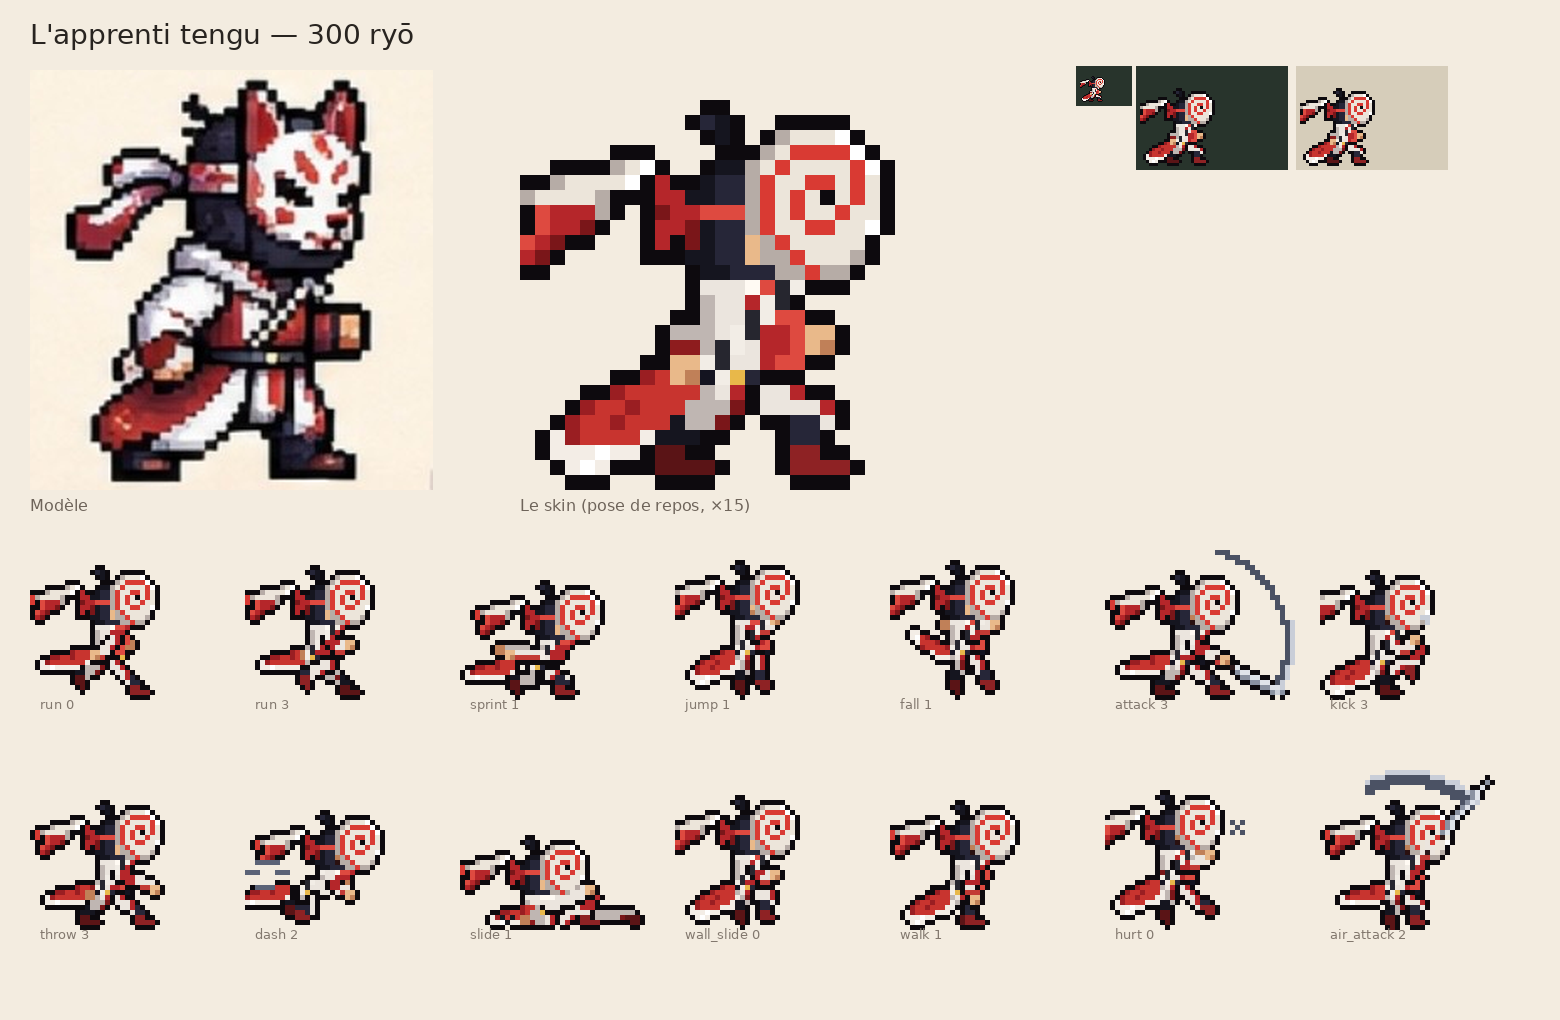
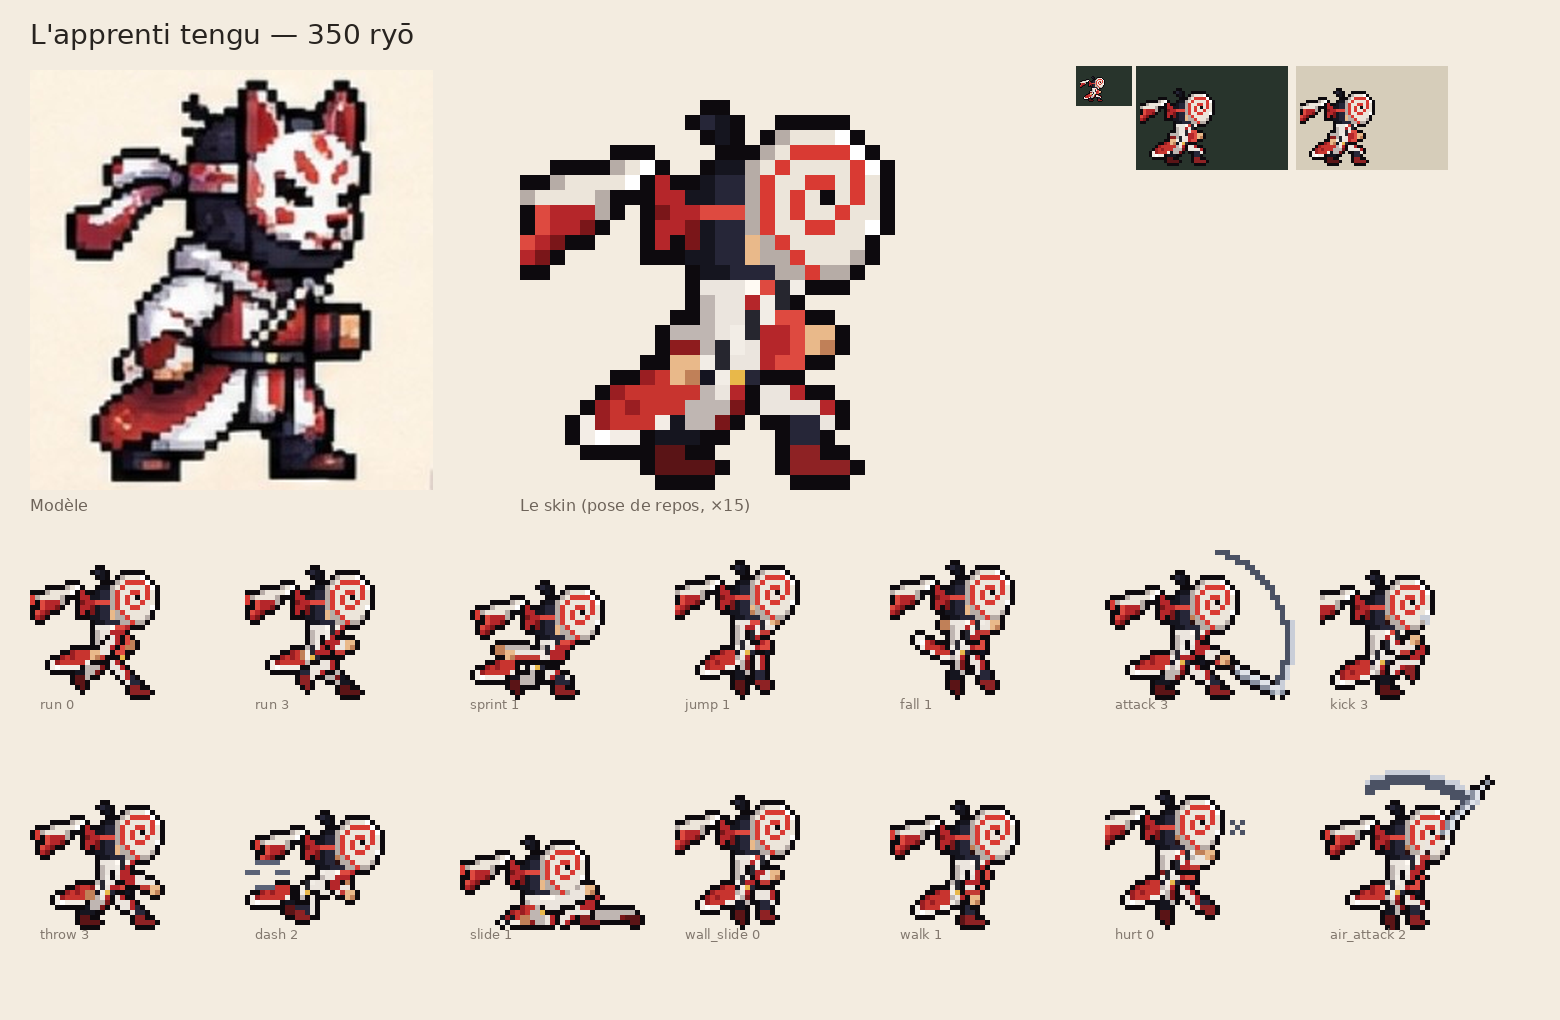
L'apprenti tengu dans le jeu, à 350 ryō ; queue de renard raccourcie
Queue de renard rouge et blanche raccourcie dans ses trois gabarits (repos,
course, chute) : elle traînait trop (Raph). Le skin entre dans le jeu, peu
commun à 350 ryō (prix choisi par Raph), entre le paysan et le Samouraï
déchu ; ses projectiles restent des shurikens. Tests (ordre de la boutique,
six skins dans le panneau de test), carte mentale, SKINS.md et CLAUDE.md à
jour.

Claude-Session: https://claude.ai/code/session_01A2iwx41GJ1yT1ZEu9VhwRg

diff --git a/docs/carte-mentale/index.html b/docs/carte-mentale/index.html
@@ -269,11 +269,11 @@ const BRANCHES = [
     txt: "Coup de pied de côté de karaté d'après des images de Raph : genou armé, hanche qui pivote, pied fléchi orteils vers le haut. L'effort se voit (yeux plissés, bouffée d'expiration, goutte de sueur). Il repousse même TATE qui pare et WARA qui mouline, jusque dans le vide.",
     keys: ['2 dégâts, recul 170 px/s', '0,35 s avant d\'en relancer un', 'Portée équivalente au sabre'],
     files: ['src/game/fall.js', 'tools/kage_forge/rig.py'], see: ['ennemi-chute'] },
-  { id: 'kage-skins', t: 'Skins de KAGE', s: 'encours', d: 'Encre, le paysan, le Samouraï déchu, le pêcheur, Lumière d’or ; cinq autres à reprendre un par un',
-    txt: "Un skin = une palette par slots (même animation, même boîte de collision, rien ne change dans le jeu) et des accessoires, posés pose par pose : sur la tête (grand sugegasa tressé, dessiné à la main), dans le dos (le mino de feuilles et de paille du voyageur, qui suit le bord du dos, s'évase jusqu'aux chevilles et s'effiloche ; le tonnelet doré, le panier, le bambou et le manche d'outil du paysan), sur le corps (cordon doré en pointillés et boucle de ceinture, pan de tunique, pantalon rapiécé, kimono semé de feuilles). Les pans du bandeau sont rangés (le voyageur garde un ruban qui flotte). Chaque skin a sa planche d'animation complète (la forge exporte ses accessoires sur un calque d'index, kage_acc_<skin>_index.png, fondu par le jeu sur la planche recolorée). Planches de Raph (14 novembre 2026) : après un premier essai trop rapide des dix skins entourés, on reprend un par un ; faits : le voyageur (100 ryō, retiré du jeu le 16 novembre 2026 à la demande de Raph : sa planche reste dans docs/kage/skins/) et le paysan des rizières (100 ryō) ; le vagabond (50 ryō) est retiré du jeu (14 novembre 2026) ; Lumière d'or (légendaire, 600 ryō, 15 novembre 2026) : ninja bleu nuit, bandeau d'or et ses pans en flammes, étoffe dorée sur l'épaule, cordon et pans d'or à la ceinture, grande auréole à croix de lumière (sans contour) ; sabre à lame d'or et poignée de cuir, arc du coup d'or, shurikens dorés (projectileColors) ; en jeu (src/game/aura.js), un orbe doré qui flotte devant lui, deux volutes de lumière autour des jambes, des étincelles ; une légère traînée d'or derrière le coup d'épée (les images précédentes de la lame) des silhouettes dorées derrière le dash , trois reflets et un peu de poussière d'or étincelante derrière chaque shuriken (champ trail, Shurikens.dust, maskSheet dans sprites.js) ; le Samouraï déchu (rare, 450 ryō, 16 novembre 2026) : kabuto laqué à la bombe haute, cornes d'or en croissant et cimier rouge, bande rouge et ses deux pans au vent ; épaulière laquée bordée d'or, au haut carré, resserrée sur l'épaule (elle ne dépasse plus que d'un pixel : Raph la confondait avec la cape) ; cape rouge en lambeaux, dessinée à la main pour chaque vent (lu sur les pans du bandeau de la pose) : au repos plaquée dans le dos des épaules aux genoux, trois pixels au plus derrière l'épaule, angles nets, une entaille sur le côté, le bas en pointes ; en course elle vole haut derrière les épaules ; en chute elle se soulève ; col d'or en V, ceinture à plaques d'or ; tassette avant bordée d'or en U, tassette arrière clouée d'or ; hakama sombre jusqu'à la jambe levée d'un coup de pied, chaussures à bande rouille ; le bras arrière rapproché du corps d'un pixel (demandes de Raph) ; sa barre de vie passe au-dessus des cornes (champ barLift). Le même jour : un calque d'accessoires sait effacer (marque ERASE, index 255 : les pans rangés, le bras déplacé) ; jusque-là, ce qu'un accessoire retirait restait visible en jeu (les pans du voyageur, du paysan et de Lumière d'or) ; et en arène, le ninja porte enfin le skin de l'aventure en cours. Le pêcheur (épique, 500 ryō, 16 novembre 2026) : sugegasa à bande de tressage gris-bleu, pan bleu sous le bord, tenue bleu nuit semée d'éclats dorés, corde tressée claire en bandoulière, une canne fine rangée dans le dos, qui dépasse au-dessus du chapeau, un petit fil pendu à sa pointe (elle quitte le dos quand il la prend pour frapper), un filet rond sur le dos tenu à la hanche, qui lévite avec la vitesse (un peu en course ; en sprint et en dash il monte, part en arrière, penche et laisse trois traits de vitesse ; plus petit pendant les saltos), une canne à pêche en bambou à la place du sabre (nœuds, poignée de liège, scion, ligne et flotteur rouge et blanc ; l'arc du coup devient une ligne d'eau), des micro-poissons en guise de shurikens (agrandis ×1,4 le 17 novembre 2026 ; planche kage_fish, cases de 16 px, tournés dans le sens du vol, plantés la tête la première, des micro-gouttelettes d'eau derrière eux ; un petit poisson dans la main au lancer), toiles de paille aux chevilles, marque dorée sur le masque. Les pans du bandeau qui remontent derrière la tête (chute, glissade murale) sont désormais rangés aussi (ribbon : paysan, Lumière d'or). L'apprenti tengu (n° 13, 17 novembre 2026, planche de travail à valider) : masque blanc lisse à œil unique, une spirale rouge d'un pixel qui part de l'œil, s'enroule vers l'extérieur et finit dans le bord bas du masque (choisi par Raph le 17 novembre 2026 parmi six idées, docs/kage/skins/tengu_masques.png, après l'abandon du masque de renard), mèche nouée, rubans blanc et rouge effilés au vent, boucle dorée à la ceinture, veste blanche à la poitrine rouge, cordelette en damier, pantalon blanc à bande rouge, tibias sombres, queue de renard touffue, rouge à pointe blanche, qui suit le vent. Les cinq autres (ninja blanc, écarlate, Ombre pourpre, Souffle de l'hiver, Renard blanc) attendent en brouillon (tools/kage_forge/skins_brouillon/), hors du jeu. Nouveaux slots : gear (b B i) et gear2 (j J).",
-    keys: ['5 skins en jeu', '5 en brouillon', 'gear b B i · gear2 j J', 'effacer : index 255'],
+  { id: 'kage-skins', t: 'Skins de KAGE', s: 'encours', d: 'Encre, le paysan, l’apprenti tengu, le Samouraï déchu, le pêcheur, Lumière d’or ; cinq autres à reprendre un par un',
+    txt: "Un skin = une palette par slots (même animation, même boîte de collision, rien ne change dans le jeu) et des accessoires, posés pose par pose : sur la tête (grand sugegasa tressé, dessiné à la main), dans le dos (le mino de feuilles et de paille du voyageur, qui suit le bord du dos, s'évase jusqu'aux chevilles et s'effiloche ; le tonnelet doré, le panier, le bambou et le manche d'outil du paysan), sur le corps (cordon doré en pointillés et boucle de ceinture, pan de tunique, pantalon rapiécé, kimono semé de feuilles). Les pans du bandeau sont rangés (le voyageur garde un ruban qui flotte). Chaque skin a sa planche d'animation complète (la forge exporte ses accessoires sur un calque d'index, kage_acc_<skin>_index.png, fondu par le jeu sur la planche recolorée). Planches de Raph (14 novembre 2026) : après un premier essai trop rapide des dix skins entourés, on reprend un par un ; faits : le voyageur (100 ryō, retiré du jeu le 16 novembre 2026 à la demande de Raph : sa planche reste dans docs/kage/skins/) et le paysan des rizières (100 ryō) ; le vagabond (50 ryō) est retiré du jeu (14 novembre 2026) ; Lumière d'or (légendaire, 600 ryō, 15 novembre 2026) : ninja bleu nuit, bandeau d'or et ses pans en flammes, étoffe dorée sur l'épaule, cordon et pans d'or à la ceinture, grande auréole à croix de lumière (sans contour) ; sabre à lame d'or et poignée de cuir, arc du coup d'or, shurikens dorés (projectileColors) ; en jeu (src/game/aura.js), un orbe doré qui flotte devant lui, deux volutes de lumière autour des jambes, des étincelles ; une légère traînée d'or derrière le coup d'épée (les images précédentes de la lame) des silhouettes dorées derrière le dash , trois reflets et un peu de poussière d'or étincelante derrière chaque shuriken (champ trail, Shurikens.dust, maskSheet dans sprites.js) ; le Samouraï déchu (rare, 450 ryō, 16 novembre 2026) : kabuto laqué à la bombe haute, cornes d'or en croissant et cimier rouge, bande rouge et ses deux pans au vent ; épaulière laquée bordée d'or, au haut carré, resserrée sur l'épaule (elle ne dépasse plus que d'un pixel : Raph la confondait avec la cape) ; cape rouge en lambeaux, dessinée à la main pour chaque vent (lu sur les pans du bandeau de la pose) : au repos plaquée dans le dos des épaules aux genoux, trois pixels au plus derrière l'épaule, angles nets, une entaille sur le côté, le bas en pointes ; en course elle vole haut derrière les épaules ; en chute elle se soulève ; col d'or en V, ceinture à plaques d'or ; tassette avant bordée d'or en U, tassette arrière clouée d'or ; hakama sombre jusqu'à la jambe levée d'un coup de pied, chaussures à bande rouille ; le bras arrière rapproché du corps d'un pixel (demandes de Raph) ; sa barre de vie passe au-dessus des cornes (champ barLift). Le même jour : un calque d'accessoires sait effacer (marque ERASE, index 255 : les pans rangés, le bras déplacé) ; jusque-là, ce qu'un accessoire retirait restait visible en jeu (les pans du voyageur, du paysan et de Lumière d'or) ; et en arène, le ninja porte enfin le skin de l'aventure en cours. Le pêcheur (épique, 500 ryō, 16 novembre 2026) : sugegasa à bande de tressage gris-bleu, pan bleu sous le bord, tenue bleu nuit semée d'éclats dorés, corde tressée claire en bandoulière, une canne fine rangée dans le dos, qui dépasse au-dessus du chapeau, un petit fil pendu à sa pointe (elle quitte le dos quand il la prend pour frapper), un filet rond sur le dos tenu à la hanche, qui lévite avec la vitesse (un peu en course ; en sprint et en dash il monte, part en arrière, penche et laisse trois traits de vitesse ; plus petit pendant les saltos), une canne à pêche en bambou à la place du sabre (nœuds, poignée de liège, scion, ligne et flotteur rouge et blanc ; l'arc du coup devient une ligne d'eau), des micro-poissons en guise de shurikens (agrandis ×1,4 le 17 novembre 2026 ; planche kage_fish, cases de 16 px, tournés dans le sens du vol, plantés la tête la première, des micro-gouttelettes d'eau derrière eux ; un petit poisson dans la main au lancer), toiles de paille aux chevilles, marque dorée sur le masque. Les pans du bandeau qui remontent derrière la tête (chute, glissade murale) sont désormais rangés aussi (ribbon : paysan, Lumière d'or). L'apprenti tengu (n° 13, peu commun, 350 ryō, 17 novembre 2026) : masque blanc lisse à œil unique, une spirale rouge d'un pixel qui part de l'œil, s'enroule vers l'extérieur et finit dans le bord bas du masque (choisi par Raph le 17 novembre 2026 parmi six idées, docs/kage/skins/tengu_masques.png, après l'abandon du masque de renard), mèche nouée, rubans blanc et rouge effilés au vent, boucle dorée à la ceinture, veste blanche à la poitrine rouge, cordelette en damier, pantalon blanc à bande rouge, tibias sombres, queue de renard rouge à pointe blanche, raccourcie pour ne plus traîner, qui suit le vent. Les cinq autres (ninja blanc, écarlate, Ombre pourpre, Souffle de l'hiver, Renard blanc) attendent en brouillon (tools/kage_forge/skins_brouillon/), hors du jeu. Nouveaux slots : gear (b B i) et gear2 (j J).",
+    keys: ['6 skins en jeu', '5 en brouillon', 'gear b B i · gear2 j J', 'effacer : index 255'],
     files: ['assets/characters/kage/skins/', 'src/engine/sprites.js', 'tools/kage_forge/accessories.py', 'tools/kage_forge/palette.py', 'tools/kage_forge/skin_design.py', 'tools/kage_forge/skin_sheets.py', 'tools/kage_forge/skins_brouillon/', 'src/game/shop.js', 'src/game/aura.js', 'docs/SKINS.md'],
-    links: [['Le paysan, face à son modèle', 'docs/kage/skins/paysan_planche.png'], ['Lumière d’or, face à son modèle', 'docs/kage/skins/or_planche.png'], ['Le Samouraï déchu, face à son modèle', 'docs/kage/skins/samourai_planche.png'], ['Le pêcheur, face à son modèle', 'docs/kage/skins/pecheur_planche.png'], ['L’apprenti tengu (en cours), face à son modèle', 'docs/kage/skins/tengu_planche.png'], ['L’apprenti tengu : les six idées de masques', 'docs/kage/skins/tengu_masques.png'], ['Le pêcheur, toutes les animations', 'docs/kage/skins/planche_pecheur.png'], ['Le Samouraï déchu, toutes les animations', 'docs/kage/skins/planche_samourai.png']], see: ['sys-boutique', 'hab-marchand'] },
+    links: [['Le paysan, face à son modèle', 'docs/kage/skins/paysan_planche.png'], ['Lumière d’or, face à son modèle', 'docs/kage/skins/or_planche.png'], ['Le Samouraï déchu, face à son modèle', 'docs/kage/skins/samourai_planche.png'], ['Le pêcheur, face à son modèle', 'docs/kage/skins/pecheur_planche.png'], ['L’apprenti tengu, face à son modèle', 'docs/kage/skins/tengu_planche.png'], ['L’apprenti tengu : les six idées de masques', 'docs/kage/skins/tengu_masques.png'], ['Le pêcheur, toutes les animations', 'docs/kage/skins/planche_pecheur.png'], ['Le Samouraï déchu, toutes les animations', 'docs/kage/skins/planche_samourai.png']], see: ['sys-boutique', 'hab-marchand'] },
 ]},
 { id: 'ennemis', side: 'R', t: 'Les ennemis', sub: 'trois en jeu, dont un mini-boss', color: 'ennemis', leaves: [
   { id: 'ennemi-tate', t: 'TATE', s: 'fait', d: 'Garde de temple au grand bouclier', spr: 'tate',

diff --git a/tools/kage_forge/accessories.py b/tools/kage_forge/accessories.py
@@ -1465,28 +1465,26 @@ def haori(g):
 # rangée relative à la ceinture) : elle pend et balaie le sol au repos, file derrière lui en course, se soulève
 # en chute
 FOX_TAIL = {
+    # (raccourcie le 17 novembre 2026, demande de Raph : elle traînait trop)
     "calm": (0, [
-        "......pPP.",
-        "....pPPPPP",
-        "..pPPpPPPQ",
-        ".pPPpPPPQQ",
-        "QpPPPPQQQ.",
-        "QQQiQQ....",
-        ".QiQ......",
+        "....pPP.",
+        "..pPPPPP",
+        ".pPpPPPQ",
+        "QpPPPQQ.",
+        "QiQQ....",
     ]),
     "back": (-1, [
-        "......pPPP",
-        "..ppPPpPPP",
-        "QpPPPPPPPQ",
-        "QQiQQQQQ..",
+        "....pPPP",
+        "..pPpPPP",
+        "QpPPPPPQ",
+        "QiQQQQ..",
     ]),
-    "up": (-4, [
-        "QQ.......",
-        "QiPp.....",
-        ".QPPPp...",
-        "..pPPPPp.",
-        "....QPPPP",
-        ".....QQQP",
+    "up": (-3, [
+        "QQ......",
+        "QiPp....",
+        ".QPPPp..",
+        "...QPPPP",
+        ".....QQP",
     ]),
 }
 

diff --git a/CLAUDE.md b/CLAUDE.md
@@ -41,7 +41,7 @@ Jeu de plateforme 2D rapide (esprit Geometry Dash), pixel art. Répondre en fran
 - Le build échoue si un contrôle qualité échoue (pieds hors du sol, slot inconnu, pixel isolé) : corriger la pose, ne pas désactiver le contrôle.
 - Poses dessinées en cellule 48×32 (le personnage occupe les 32 premières colonnes ; les 16 de droite servent au sabre), ancrage (16, 31) ; **à l'export, KAGE est agrandi de 20 %** (`tools/kage_forge/scale.py` : lignes et colonnes doublées, jamais de zoom) en cellule 57×36, ancrage (19, 35) ; TATE et WARA de même (`enemies/grow20.py`), pas KARASU-KASHI. Boîtes de collision du corps de KAGE inchangées (passages du niveau), zones de frappe et boîtes des ennemis agrandies ; orientation droite, retournement pour la gauche.
 - Couleurs = palette slot → couleur (`skins/encre.json`), appliquée depuis `kage_sheet_index.png`. Skins en cours (planche `tools/kage_forge/skin_board.py`) : un skin change la palette, et ses **accessoires** (chapeau, masque…) peuvent changer la silhouette (accord de l'utilisateur) ; jamais les animations ni la boîte de collision.
-- **Skins de novembre 2026** (planches de Raph) : on les fait **un par un, fidèles au modèle** (demande expresse après un premier jet trop rapide). Accessoires dans `accessories.py` (chapeaux dessinés à la main, capes et paquetages qui suivent le dos pose par pose, cordon, pan, pantalon…), slots `gear` (b B i) et `gear2` (j J) ; planche de travail face au modèle : `skin_design.py`, planches d'animation complètes : `skin_sheets.py`. Faits : paysan, Samouraï déchu, pêcheur (canne à pêche au lieu du sabre, micro-poissons au lieu des shurikens : champ `projectile` du skin, planche `kage_fish`), Lumière d'or (éclat en jeu : `src/game/aura.js`) ; un accessoire peut effacer des pixels de la pose (marque `ERASE`, index 255 du calque, effacée par `sprites.js`) ; le vagabond et le voyageur sont retirés ; les autres en brouillon dans `tools/kage_forge/skins_brouillon/` (hors du jeu). Boutique plein écran : `src/game/shop.js`.
+- **Skins de novembre 2026** (planches de Raph) : on les fait **un par un, fidèles au modèle** (demande expresse après un premier jet trop rapide). Accessoires dans `accessories.py` (chapeaux dessinés à la main, capes et paquetages qui suivent le dos pose par pose, cordon, pan, pantalon…), slots `gear` (b B i) et `gear2` (j J) ; planche de travail face au modèle : `skin_design.py`, planches d'animation complètes : `skin_sheets.py`. Faits : paysan, apprenti tengu (masque à spirale), Samouraï déchu, pêcheur (canne à pêche au lieu du sabre, micro-poissons au lieu des shurikens : champ `projectile` du skin, planche `kage_fish`), Lumière d'or (éclat en jeu : `src/game/aura.js`) ; un accessoire peut effacer des pixels de la pose (marque `ERASE`, index 255 du calque, effacée par `sprites.js`) ; le vagabond et le voyageur sont retirés ; les autres en brouillon dans `tools/kage_forge/skins_brouillon/` (hors du jeu). Boutique plein écran : `src/game/shop.js`.
 - Chaque animation est liée à un état de `src/game/player.js` (même nom que dans `kage.json`).
 - **Coup de pied sauté** (novembre 2026) : en l'air, la touche du coup de pied donne `air_kick`, la pose de l'introduction (`tools/kage_forge/intro_kick.py` : mêmes poses, recalées sur le corps du saut ; l'intro garde les siennes), comme le sabre en l'air remplace le sabre au sol ; dégâts et recul du coup de pied, chute freinée comme `air_attack`.
 - **Saltos** (novembre 2026) : dessin `tools/kage_forge/flip.py` (rotation RotSprite, bandeau tracé à la traîne du nœud, corps agrandi en boule mais pas la tête) ; en jeu (`startFlip`, `updateFlip`, `P.flip`), **deuxième appui sur saut en l'air** (au clavier comme sur téléphone ; un essai au joystick a été refusé), arrière si la direction s'oppose au départ, envolée bridée (jamais plus haut d'une demi-case ni plus loin qu'un saut normal), aucun salto pendant les sauts muraux ni près d'un mur. Sabre pendant ou juste après un salto : **coup du salto** (`flip_attack`, 4 dégâts, `FLIP_ATTACK` dans `art.py`).

diff --git a/docs/SKINS.md b/docs/SKINS.md
@@ -14,6 +14,7 @@ Tout ce qu'il faut savoir pour **créer un skin** du ninja de *The Ninja Adventu
 |---|---|---|---|---|---|
 | `encre` | Encre | origine | — | — | le skin d'origine, toujours possédé |
 | `paysan` | Paysan des rizières | commun | 100 | `notails`, `pants`, `dots`, `farmer`, `sash`, `kasa` | kimono vert, tonnelet et panier sur le dos, bambou |
+| `tengu` | L'apprenti tengu | peu commun | 350 | `fox_tail`, `haori`, `rope`, `fox_mask` | masque blanc à œil unique et spirale rouge qui finit dans le bord du masque, mèche nouée, rubans blanc et rouge au vent ; veste blanche au devant rouge, cordelette en damier, pantalon blanc à bande rouge, boucle dorée ; queue de renard rouge à pointe blanche, courte, qui suit le vent |
 | `samourai` | Samouraï déchu | rare | 450 | `arm_in`, `hakama`, `kusazuri`, `rag`, `sode`, `samurai_trim`, `kabuto` | kabuto aux cornes d'or en croissant et cimier rouge, pans au vent, épaulière carrée resserrée sur l'épaule, cape en lambeaux (plaquée au repos, au vent en course), tassettes bordées d'or ; bras arrière rapproché du corps ; `barLift: 4` (barre de vie au-dessus des cornes) |
 | `pecheur` | Le pêcheur | épique | 500 | `round_net`, `ribbon`, `rope`, `specks`, `wraps`, `mask_mark`, `rod`, `back_rod`, `kasa_peche` | sugegasa tressé de bleu, pan bleu, une canne fine rangée dans le dos (un fil pend de sa pointe ; elle quitte le dos quand il frappe), filet rond sur le dos qui lévite avec la vitesse (course, sprint), corde tressée, éclats dorés ; **canne à pêche** en bambou à la place du sabre (ligne et flotteur, arc du coup en ligne d'eau) ; **micro-poissons** en guise de shurikens (`projectile: "fish"`, gouttes d'eau : `projectileDust: "water"`) |
 | `or` | Lumière d'or | légendaire | 600 | `flametails`, `halo`, `hipcloth`, `mantlet`, `sash`, `apron` | `aura: 'gold'` (éclat : `src/game/aura.js`), shurikens dorés (`projectileColors`), traînées d'or (`trail`), poussière d'or derrière les shurikens (`goldDust`, `src/game/shuriken.js`) |
